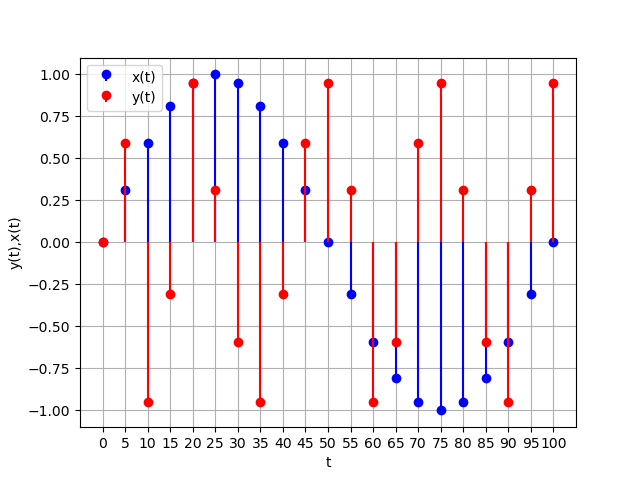
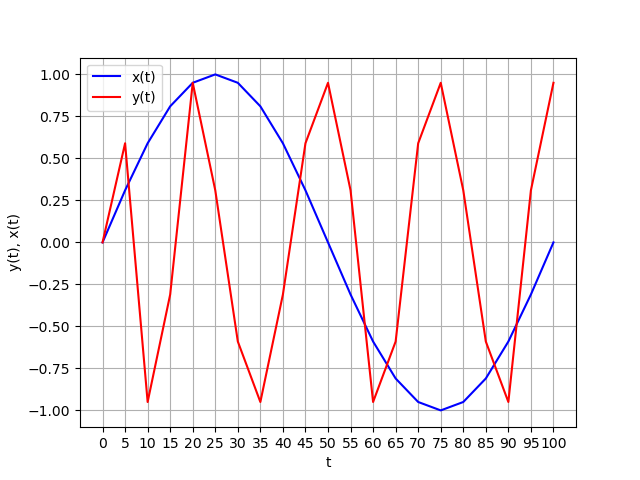
Add files via upload

Changed region(s): [[0.1562, 0.125, 0.875, 0.875], [0.0, 0.4375, 0.0312, 0.5625], [0.1562, 0.125, 0.1875, 0.2188]]

diff --git a/assign4/codes/k.py b/assign4/codes/k.py
@@ -14,17 +14,19 @@ for line in data[1:]:  # Skip the header
     x_t.append(float(values[1]))
     y_t.append(float(values[2]))
 
-# Create a stem plot for x(t)
-plt.stem(t, x_t, linefmt='b-', markerfmt='bo', basefmt=' ')
+# Create a continuous plot for x(t)
+plt.plot(t, x_t, 'b-', label='x(t)')
 
-# Create a stem plot for y(t)
-plt.stem(t, y_t, linefmt='r-', markerfmt='ro', basefmt=' ')
+# Create a continuous plot for y(t)
+plt.plot(t, y_t, 'r-', label='y(t)')
 
 # Add labels and legend
 plt.xlabel('t')
-plt.ylabel('y(t),x(t)')
-plt.legend(['x(t)', 'y(t)'])
-plt.xticks(range(0, 101,5))  # Set x-axis ticks for values from 0 to 100
+plt.ylabel('y(t), x(t)')
+plt.legend()
+plt.xticks(range(0, 101, 5))  # Set x-axis ticks for values from 0 to 100
 plt.grid(True)
+
+# Save and display the plot
 plt.savefig('fig_plot.png')
 plt.show()
